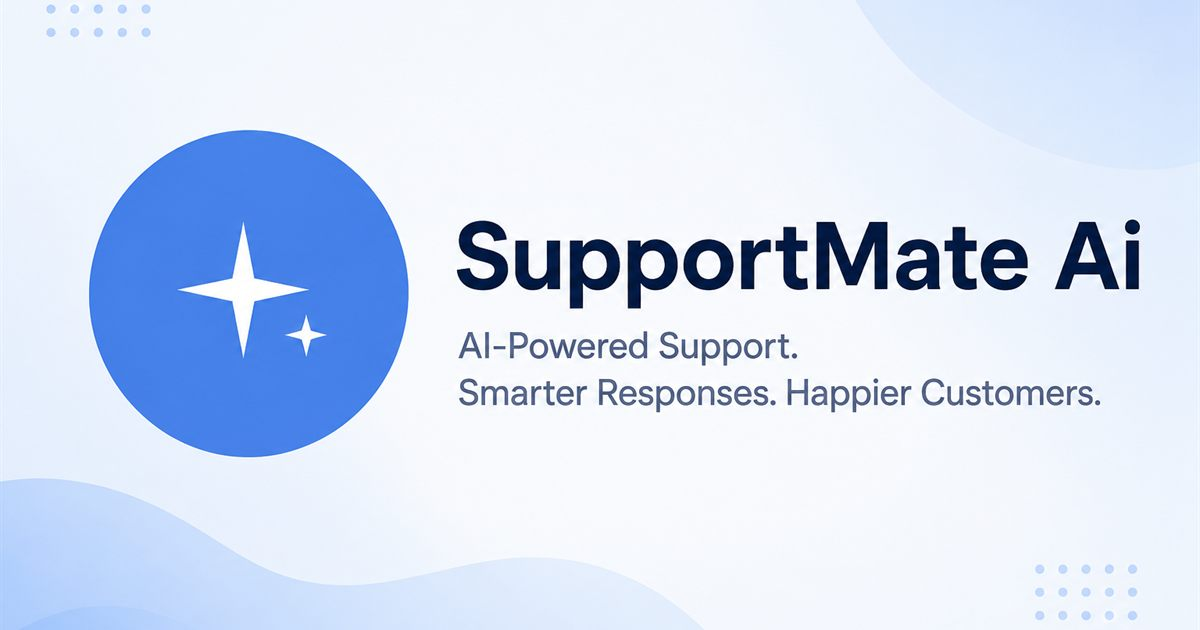
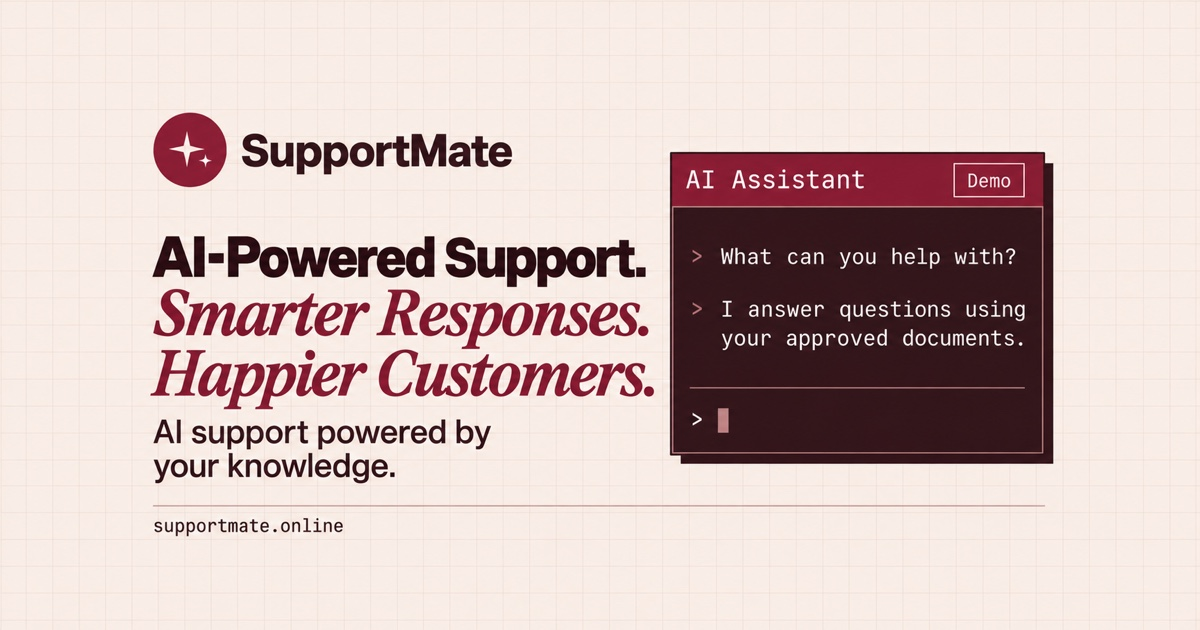
Match social previews and hero to retro branding

diff --git a/frontend/src/features/landing/view/components/HeroSection.tsx b/frontend/src/features/landing/view/components/HeroSection.tsx
@@ -6,12 +6,12 @@ export function HeroSection() {
   return (
     <section className="landing-hero relative overflow-hidden border-b border-gray-200">
       <div className={cn(shell, "relative z-[1] grid grid-cols-[1.05fr_0.95fr] items-center gap-14 px-7 py-20 max-[900px]:grid-cols-1 max-[900px]:gap-12 max-[900px]:px-5 max-[900px]:py-14")}>
-        <div>
-          <h1 className="mb-6 max-w-[680px] font-[var(--font-display)] text-[clamp(3.5rem,7.6vw,6rem)] font-extrabold leading-[0.94] tracking-[-0.065em] text-rm-trip-text">
-            Knowledge in.
-            <br />
-            <em className="font-[var(--font-editorial)] font-normal tracking-[-0.055em] text-rm-trip-brand">
-              Answers out.
+        <div className="min-w-0">
+          <h1 className="mb-6 max-w-[680px] font-[family-name:var(--font-display)] text-[clamp(2rem,4.4vw,3.5rem)] font-extrabold leading-[1.08] tracking-[-0.045em] text-rm-trip-text max-[900px]:text-[clamp(1.75rem,5.8vw,3.5rem)]">
+            <span className="block">AI-Powered Support.</span>{" "}
+            <em className="block font-[family-name:var(--font-editorial)] font-normal tracking-[-0.035em] text-rm-trip-brand">
+              <span className="block">Smarter Responses.</span>{" "}
+              <span className="block">Happier Customers.</span>
             </em>
           </h1>
           <p className="mb-8 max-w-[540px] text-base leading-7 text-rm-trip-text-muted sm:text-lg">

diff --git a/frontend/src/lib/seo.ts b/frontend/src/lib/seo.ts
@@ -45,7 +45,9 @@ export function renderSeoHead(pathname: string) {
     page?.description ??
     "Manage your SupportMate AI account and customer support workspace.";
   const url = `${SITE_URL}${path}`;
-  const image = `${SITE_URL}/social-preview.jpg`;
+  const image = `${SITE_URL}/social-preview.jpg?v=retro-1`;
+  const imageAlt =
+    "SupportMate — AI-Powered Support. Smarter Responses. Happier Customers. Retro maroon chatbot preview on cream graph paper.";
 
   const meta = (
     attribute: "name" | "property",
@@ -95,13 +97,13 @@ export function renderSeoHead(pathname: string) {
     meta("property", "og:image:type", "image/jpeg"),
     meta("property", "og:image:width", "1200"),
     meta("property", "og:image:height", "630"),
-    meta("property", "og:image:alt", "SupportMate AI logo"),
+    meta("property", "og:image:alt", imageAlt),
     meta("name", "twitter:card", "summary_large_image"),
     meta("name", "twitter:site", "@SupportMateai"),
     meta("name", "twitter:title", title),
     meta("name", "twitter:description", description),
     meta("name", "twitter:image", image),
-    meta("name", "twitter:image:alt", "SupportMate AI logo"),
+    meta("name", "twitter:image:alt", imageAlt),
     path === "/"
       ? `<script data-seo type="application/ld+json">${
           JSON.stringify(structuredData).replace(/</g, "\\u003c")
